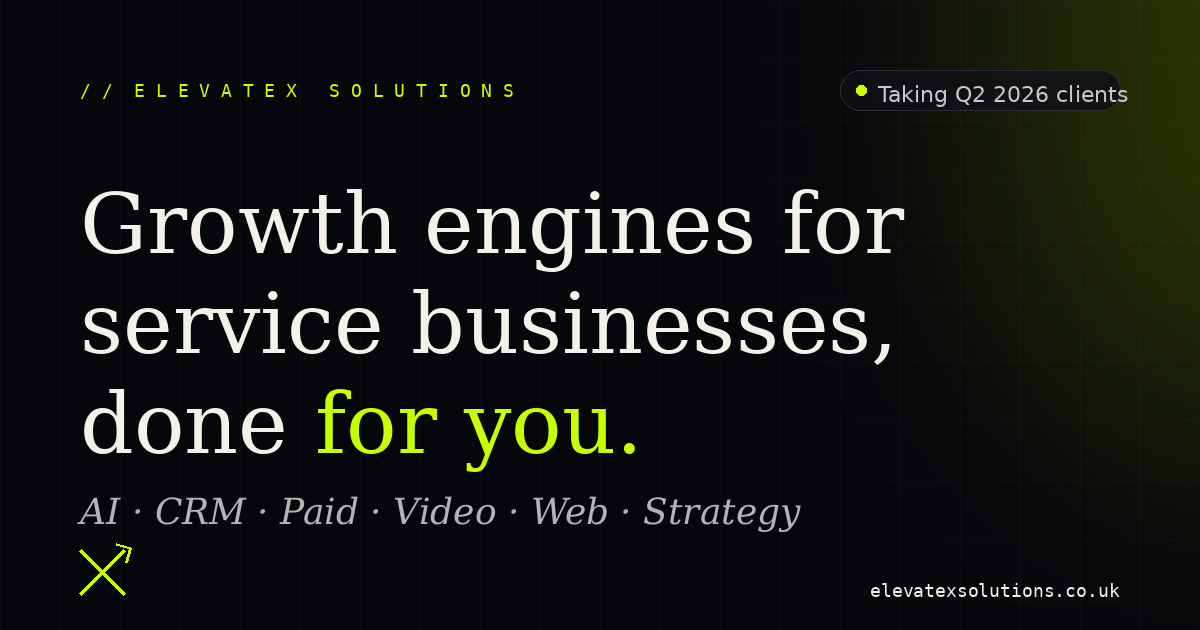
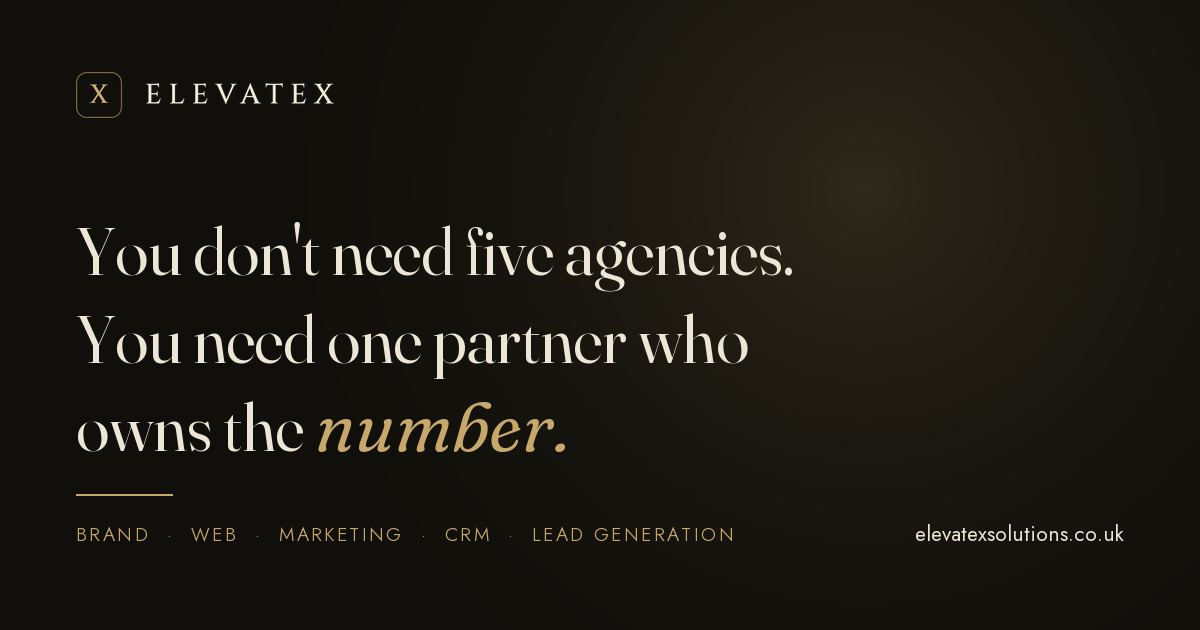
Replace social share card with 2026 Growth Partners brand
The og:image was still the retired lime "ElevateX Solutions" card, so
every LinkedIn, WhatsApp and Slack share rendered the old brand.

Rebuilt in the gold/charcoal identity using the live hero headline.
Versioned the filename to og-image-v2.png because _headers serves
/assets/* as immutable for a year and this file is not content-hashed,
so an in-place overwrite would stay hidden behind the edge cache.
og-image.png is updated in place too, so the old URL also serves new art.

diff --git a/index.html b/index.html
@@ -24,13 +24,13 @@
     <meta property="og:url" content="https://elevatexsolutions.co.uk/" />
     <meta property="og:title" content="ElevateX Growth Partners — One partner. Every lever of growth." />
     <meta property="og:description" content="The embedded growth partner for founders who build more than one thing." />
-    <meta property="og:image" content="https://elevatexsolutions.co.uk/assets/og-image.png" />
+    <meta property="og:image" content="https://elevatexsolutions.co.uk/assets/og-image-v2.png" />
     <meta property="og:locale" content="en_GB" />
 
     <meta name="twitter:card" content="summary_large_image" />
     <meta name="twitter:title" content="ElevateX Growth Partners — One partner. Every lever of growth." />
     <meta name="twitter:description" content="The embedded growth partner for founders who build more than one thing." />
-    <meta name="twitter:image" content="https://elevatexsolutions.co.uk/assets/og-image.png" />
+    <meta name="twitter:image" content="https://elevatexsolutions.co.uk/assets/og-image-v2.png" />
 
     <meta name="theme-color" content="#100f0b" />
 
@@ -62,7 +62,7 @@
             "@type": "ImageObject",
             "url": "https://elevatexsolutions.co.uk/brand/wordmark-on-charcoal.png"
           },
-          "image": "https://elevatexsolutions.co.uk/assets/og-image.png",
+          "image": "https://elevatexsolutions.co.uk/assets/og-image-v2.png",
           "email": "alex@elevatexsolutions.co.uk",
           "areaServed": { "@type": "Country", "name": "United Kingdom" },
           "knowsAbout": [

diff --git a/industries/marketing-for-mortgage-brokers-uk.html b/industries/marketing-for-mortgage-brokers-uk.html
@@ -12,7 +12,7 @@
 
 <meta property="og:title" content="Marketing for UK Mortgage Brokers — FCA-Compliant Lead Generation | ElevateX">
 <meta property="og:description" content="Specialist marketing for UK mortgage brokers. FCA-compliant lead generation, automation, AI booking, niche positioning (first-time buyer, BTL, adverse credit). Built for FCA-regulated firms.">
-<meta property="og:image" content="https://elevatexsolutions.co.uk/assets/og-image.png">
+<meta property="og:image" content="https://elevatexsolutions.co.uk/assets/og-image-v2.png">
 <meta property="og:url" content="https://elevatexsolutions.co.uk/industries/marketing-for-mortgage-brokers-uk">
 <meta property="og:type" content="article">
 <meta property="og:site_name" content="ElevateX Solutions">
@@ -20,7 +20,7 @@
 <meta name="twitter:card" content="summary_large_image">
 <meta name="twitter:title" content="Marketing for UK Mortgage Brokers — FCA-Compliant Lead Generation | ElevateX">
 <meta name="twitter:description" content="Specialist marketing for UK mortgage brokers. FCA-compliant lead generation, automation, AI booking, niche positioning (first-time buyer, BTL, adverse credit). Built for FCA-regulated firms.">
-<meta name="twitter:image" content="https://elevatexsolutions.co.uk/assets/og-image.png">
+<meta name="twitter:image" content="https://elevatexsolutions.co.uk/assets/og-image-v2.png">
 
 <link rel="icon" type="image/png" href="/brand/favicon.png">
 

diff --git a/industries/marketing-for-aesthetic-clinics-uk.html b/industries/marketing-for-aesthetic-clinics-uk.html
@@ -12,7 +12,7 @@
 
 <meta property="og:title" content="Marketing for UK Aesthetic Clinics — Patient Acquisition Done Right | ElevateX">
 <meta property="og:description" content="Specialist marketing for UK aesthetic clinics. We cut a London clinic's cost per booking from £89 to £23 in 90 days. CAP-code compliant ads, automation, AI booking, full system.">
-<meta property="og:image" content="https://elevatexsolutions.co.uk/assets/og-image.png">
+<meta property="og:image" content="https://elevatexsolutions.co.uk/assets/og-image-v2.png">
 <meta property="og:url" content="https://elevatexsolutions.co.uk/industries/marketing-for-aesthetic-clinics-uk">
 <meta property="og:type" content="article">
 <meta property="og:site_name" content="ElevateX Solutions">
@@ -20,7 +20,7 @@
 <meta name="twitter:card" content="summary_large_image">
 <meta name="twitter:title" content="Marketing for UK Aesthetic Clinics — Patient Acquisition Done Right | ElevateX">
 <meta name="twitter:description" content="Specialist marketing for UK aesthetic clinics. We cut a London clinic's cost per booking from £89 to £23 in 90 days. CAP-code compliant ads, automation, AI booking, full system.">
-<meta name="twitter:image" content="https://elevatexsolutions.co.uk/assets/og-image.png">
+<meta name="twitter:image" content="https://elevatexsolutions.co.uk/assets/og-image-v2.png">
 
 <link rel="icon" type="image/png" href="/brand/favicon.png">
 

diff --git a/industries/marketing-agency-for-prop-trading-firms-uk.html b/industries/marketing-agency-for-prop-trading-firms-uk.html
@@ -12,7 +12,7 @@
 
 <meta property="og:title" content="Marketing Agency for UK Prop Trading Firms — Growth Engine | ElevateX">
 <meta property="og:description" content="Specialist marketing for UK &amp; EU prop trading firms, from the team behind Athena Edge — our own prop firm, built to 45,000 email subscribers and a 10,000+ member community.">
-<meta property="og:image" content="https://elevatexsolutions.co.uk/assets/og-image.png">
+<meta property="og:image" content="https://elevatexsolutions.co.uk/assets/og-image-v2.png">
 <meta property="og:url" content="https://elevatexsolutions.co.uk/industries/marketing-agency-for-prop-trading-firms-uk">
 <meta property="og:type" content="article">
 <meta property="og:site_name" content="ElevateX Solutions">
@@ -20,7 +20,7 @@
 <meta name="twitter:card" content="summary_large_image">
 <meta name="twitter:title" content="Marketing Agency for UK Prop Trading Firms — Growth Engine | ElevateX">
 <meta name="twitter:description" content="Specialist marketing for UK &amp; EU prop trading firms, from the team behind Athena Edge — our own prop firm, built to 45,000 email subscribers and a 10,000+ member community.">
-<meta name="twitter:image" content="https://elevatexsolutions.co.uk/assets/og-image.png">
+<meta name="twitter:image" content="https://elevatexsolutions.co.uk/assets/og-image-v2.png">
 
 <link rel="icon" type="image/png" href="/brand/favicon.png">
 

diff --git a/industries/marketing-for-renewable-energy-installers-uk.html b/industries/marketing-for-renewable-energy-installers-uk.html
@@ -12,7 +12,7 @@
 
 <meta property="og:title" content="Marketing for UK Renewable Energy Installers — Solar, Heat Pumps, ECO4 | ElevateX">
 <meta property="og:description" content="Specialist marketing for UK renewable energy installers. Solar PV, heat pumps, ECO4 and BUS grant funnels, MCS-aware lead generation run by one embedded partner.">
-<meta property="og:image" content="https://elevatexsolutions.co.uk/assets/og-image.png">
+<meta property="og:image" content="https://elevatexsolutions.co.uk/assets/og-image-v2.png">
 <meta property="og:url" content="https://elevatexsolutions.co.uk/industries/marketing-for-renewable-energy-installers-uk">
 <meta property="og:type" content="article">
 <meta property="og:site_name" content="ElevateX Solutions">
@@ -20,7 +20,7 @@
 <meta name="twitter:card" content="summary_large_image">
 <meta name="twitter:title" content="Marketing for UK Renewable Energy Installers — Solar, Heat Pumps, ECO4 | ElevateX">
 <meta name="twitter:description" content="Specialist marketing for UK renewable energy installers. Solar PV, heat pumps, ECO4 and BUS grant funnels, MCS-aware lead generation run by one embedded partner.">
-<meta name="twitter:image" content="https://elevatexsolutions.co.uk/assets/og-image.png">
+<meta name="twitter:image" content="https://elevatexsolutions.co.uk/assets/og-image-v2.png">
 
 <link rel="icon" type="image/png" href="/brand/favicon.png">
 

diff --git a/industries/marketing-for-dental-practices-uk.html b/industries/marketing-for-dental-practices-uk.html
@@ -12,7 +12,7 @@
 
 <meta property="og:title" content="Marketing for UK Dental Practices — 312% Booking Lift | ElevateX">
 <meta property="og:description" content="Specialist marketing for UK private dental practices. We grew one practice's bookings by 312% in 90 days. Invisalign funnels, Google Ads, automation, AI booking, GDC-compliant.">
-<meta property="og:image" content="https://elevatexsolutions.co.uk/assets/og-image.png">
+<meta property="og:image" content="https://elevatexsolutions.co.uk/assets/og-image-v2.png">
 <meta property="og:url" content="https://elevatexsolutions.co.uk/industries/marketing-for-dental-practices-uk">
 <meta property="og:type" content="article">
 <meta property="og:site_name" content="ElevateX Solutions">
@@ -20,7 +20,7 @@
 <meta name="twitter:card" content="summary_large_image">
 <meta name="twitter:title" content="Marketing for UK Dental Practices — 312% Booking Lift | ElevateX">
 <meta name="twitter:description" content="Specialist marketing for UK private dental practices. We grew one practice's bookings by 312% in 90 days. Invisalign funnels, Google Ads, automation, AI booking, GDC-compliant.">
-<meta name="twitter:image" content="https://elevatexsolutions.co.uk/assets/og-image.png">
+<meta name="twitter:image" content="https://elevatexsolutions.co.uk/assets/og-image-v2.png">
 
 <link rel="icon" type="image/png" href="/brand/favicon.png">
 

diff --git a/services/growth-strategy.html b/services/growth-strategy.html
@@ -11,7 +11,7 @@
 
 <meta property="og:title" content="Growth Strategy — Positioning, offer architecture, GTM planning">
 <meta property="og:description" content="Before we build, we figure out what to build. Positioning audits, offer architecture, GTM roadmaps, channel planning, budget allocation. Strategy that turns into shipped execution.">
-<meta property="og:image" content="https://elevatexsolutions.co.uk/assets/og-image.png">
+<meta property="og:image" content="https://elevatexsolutions.co.uk/assets/og-image-v2.png">
 <meta property="og:url" content="https://elevatexsolutions.co.uk/services/growth-strategy">
 <meta property="og:type" content="website">
 <meta property="og:site_name" content="ElevateX Solutions">
@@ -19,7 +19,7 @@
 <meta name="twitter:card" content="summary_large_image">
 <meta name="twitter:title" content="Growth Strategy — Positioning, offer architecture, GTM planning">
 <meta name="twitter:description" content="Before we build, we figure out what to build. Positioning audits, offer architecture, GTM roadmaps, channel planning, budget allocation. Strategy that turns into shipped execution.">
-<meta name="twitter:image" content="https://elevatexsolutions.co.uk/assets/og-image.png">
+<meta name="twitter:image" content="https://elevatexsolutions.co.uk/assets/og-image-v2.png">
 
 <link rel="icon" type="image/png" href="/brand/favicon.png">
 

diff --git a/services/ai-implementation.html b/services/ai-implementation.html
@@ -11,7 +11,7 @@
 
 <meta property="og:title" content="AI Implementation — Voice agents, chatbots, intelligent automations">
 <meta property="og:description" content="We deploy AI voice receptionists, chat agents, and intelligent workflow automations trained on your business. 24/7. Built to qualify, book, and recover leads while you sleep.">
-<meta property="og:image" content="https://elevatexsolutions.co.uk/assets/og-image.png">
+<meta property="og:image" content="https://elevatexsolutions.co.uk/assets/og-image-v2.png">
 <meta property="og:url" content="https://elevatexsolutions.co.uk/services/ai-implementation">
 <meta property="og:type" content="website">
 <meta property="og:site_name" content="ElevateX Solutions">
@@ -19,7 +19,7 @@
 <meta name="twitter:card" content="summary_large_image">
 <meta name="twitter:title" content="AI Implementation — Voice agents, chatbots, intelligent automations">
 <meta name="twitter:description" content="We deploy AI voice receptionists, chat agents, and intelligent workflow automations trained on your business. 24/7. Built to qualify, book, and recover leads while you sleep.">
-<meta name="twitter:image" content="https://elevatexsolutions.co.uk/assets/og-image.png">
+<meta name="twitter:image" content="https://elevatexsolutions.co.uk/assets/og-image-v2.png">
 
 <link rel="icon" type="image/png" href="/brand/favicon.png">
 

diff --git a/services/crm-automation.html b/services/crm-automation.html
@@ -11,7 +11,7 @@
 
 <meta property="og:title" content="CRM & Automation — GoHighLevel builds, pipelines, sequences">
 <meta property="og:description" content="Full GoHighLevel implementations. Pipelines, sequences, missed-call recovery, review automation, reporting dashboards. End-to-end systems that work whether you're at the desk or not.">
-<meta property="og:image" content="https://elevatexsolutions.co.uk/assets/og-image.png">
+<meta property="og:image" content="https://elevatexsolutions.co.uk/assets/og-image-v2.png">
 <meta property="og:url" content="https://elevatexsolutions.co.uk/services/crm-automation">
 <meta property="og:type" content="website">
 <meta property="og:site_name" content="ElevateX Solutions">
@@ -19,7 +19,7 @@
 <meta name="twitter:card" content="summary_large_image">
 <meta name="twitter:title" content="CRM & Automation — GoHighLevel builds, pipelines, sequences">
 <meta name="twitter:description" content="Full GoHighLevel implementations. Pipelines, sequences, missed-call recovery, review automation, reporting dashboards. End-to-end systems that work whether you're at the desk or not.">
-<meta name="twitter:image" content="https://elevatexsolutions.co.uk/assets/og-image.png">
+<meta name="twitter:image" content="https://elevatexsolutions.co.uk/assets/og-image-v2.png">
 
 <link rel="icon" type="image/png" href="/brand/favicon.png">
 

diff --git a/services/paid-advertising.html b/services/paid-advertising.html
@@ -11,7 +11,7 @@
 
 <meta property="og:title" content="Paid Advertising — Meta, Google, TikTok, LinkedIn">
 <meta property="og:description" content="Strategy, creative, daily optimisation. £2.4M+ ad spend managed. Conversion API on Meta, Enhanced Conversions on Google. We don't run ads — we run profitable acquisition systems.">
-<meta property="og:image" content="https://elevatexsolutions.co.uk/assets/og-image.png">
+<meta property="og:image" content="https://elevatexsolutions.co.uk/assets/og-image-v2.png">
 <meta property="og:url" content="https://elevatexsolutions.co.uk/services/paid-advertising">
 <meta property="og:type" content="website">
 <meta property="og:site_name" content="ElevateX Solutions">
@@ -19,7 +19,7 @@
 <meta name="twitter:card" content="summary_large_image">
 <meta name="twitter:title" content="Paid Advertising — Meta, Google, TikTok, LinkedIn">
 <meta name="twitter:description" content="Strategy, creative, daily optimisation. £2.4M+ ad spend managed. Conversion API on Meta, Enhanced Conversions on Google. We don't run ads — we run profitable acquisition systems.">
-<meta name="twitter:image" content="https://elevatexsolutions.co.uk/assets/og-image.png">
+<meta name="twitter:image" content="https://elevatexsolutions.co.uk/assets/og-image-v2.png">
 
 <link rel="icon" type="image/png" href="/brand/favicon.png">
 

diff --git a/services/growth-partner.html b/services/growth-partner.html
@@ -11,7 +11,7 @@
 
 <meta property="og:title" content="Growth Partner UK — The Embedded Alternative to an Agency">
 <meta property="og:description" content="What a growth partner is, how the embedded model differs from a marketing agency, and how ElevateX runs every lever of growth as one across a founder's whole portfolio.">
-<meta property="og:image" content="https://elevatexsolutions.co.uk/assets/og-image.png">
+<meta property="og:image" content="https://elevatexsolutions.co.uk/assets/og-image-v2.png">
 <meta property="og:url" content="https://elevatexsolutions.co.uk/services/growth-partner">
 <meta property="og:type" content="website">
 <meta property="og:site_name" content="ElevateX Solutions">
@@ -19,7 +19,7 @@
 <meta name="twitter:card" content="summary_large_image">
 <meta name="twitter:title" content="Growth Partner UK — The Embedded Alternative to an Agency">
 <meta name="twitter:description" content="What a growth partner is, how the embedded model differs from a marketing agency, and how ElevateX runs every lever of growth as one across a founder's whole portfolio.">
-<meta name="twitter:image" content="https://elevatexsolutions.co.uk/assets/og-image.png">
+<meta name="twitter:image" content="https://elevatexsolutions.co.uk/assets/og-image-v2.png">
 
 <link rel="icon" type="image/png" href="/brand/favicon.png">
 

diff --git a/services/web-design.html b/services/web-design.html
@@ -11,7 +11,7 @@
 
 <meta property="og:title" content="Web Design & Build — Conversion-led sites and landing pages">
 <meta property="og:description" content="Conversion-led websites and landing pages. Speed-optimised, SEO-ready, Lighthouse 95+. Built on Cloudflare Pages, Webflow, or custom Next.js depending on the use case.">
-<meta property="og:image" content="https://elevatexsolutions.co.uk/assets/og-image.png">
+<meta property="og:image" content="https://elevatexsolutions.co.uk/assets/og-image-v2.png">
 <meta property="og:url" content="https://elevatexsolutions.co.uk/services/web-design">
 <meta property="og:type" content="website">
 <meta property="og:site_name" content="ElevateX Solutions">
@@ -19,7 +19,7 @@
 <meta name="twitter:card" content="summary_large_image">
 <meta name="twitter:title" content="Web Design & Build — Conversion-led sites and landing pages">
 <meta name="twitter:description" content="Conversion-led websites and landing pages. Speed-optimised, SEO-ready, Lighthouse 95+. Built on Cloudflare Pages, Webflow, or custom Next.js depending on the use case.">
-<meta name="twitter:image" content="https://elevatexsolutions.co.uk/assets/og-image.png">
+<meta name="twitter:image" content="https://elevatexsolutions.co.uk/assets/og-image-v2.png">
 
 <link rel="icon" type="image/png" href="/brand/favicon.png">
 
